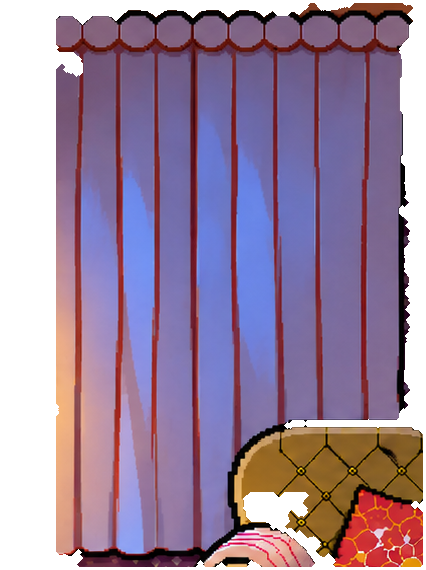
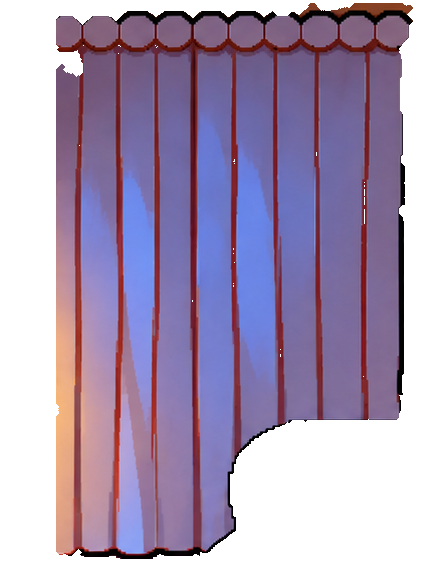
Remove the curtain wiggle; trim closed-curtain pieces to fabric only
- The wrong-light hint that wiggled the closed-curtain layer (wob.win)
  is gone. It shifted the whole layer, dragging armchair pixels and
  showing the pulled-back curtain behind. Light problems now show only
  in the plant: squinting, leaning, hunching.
- day/golden/night_curtains_closed.png held the armchair back, pillow,
  throw and bits of wallpaper along the bottom and right edges besides
  the fabric. Those pixels are now transparent (background removal
  only: no kept pixel changed color, nothing added; the curtain's
  outline keeps its full weight).
- tests/curtain_shots.py: closed curtains at day, golden hour and
  night with a too-dark sun-lover; checks the plant hunches and the
  curtain pixels stay identical over two seconds (it does catch the
  old wiggle if put back).

diff --git a/js/core.js b/js/core.js
@@ -32,7 +32,7 @@ function blocks(map,x,y,c,p=P){x=Math.round(x);y=Math.round(y);g.fillStyle=C.out
 const GL={z:['1111','0010','0100','1111'],star:['10101','01110','11111','01110','10101']};
 function flame(x,y,t){const f=Math.sin(t*20+x)>0?P:0;g.fillStyle=C.out;g.fillRect(x-P*1.5-2,y-P*4-f-2,P*3+4,P*5+f+4);g.fillStyle=C.fl1;g.fillRect(x-P*1.5,y-P*2,P*3,P*2);g.fillStyle=C.fl2;g.fillRect(x-P,y-P*3-f,P*2,P*2);g.fillStyle=C.fl3;g.fillRect(x-P/2,y-P*4-f,P,P*1.5);}
 function heart(x,y){blocks(['1101','1111','0110'],x,y,C.fl1,4);}
-let last=performance.now(),T=0,blink=0;const parts=[];const held={tool:null,item:null};let mx=-99,my=-99;const wob={can:0,jar:0,book:0,win:0};
+let last=performance.now(),T=0,blink=0;const parts=[];const held={tool:null,item:null};let mx=-99,my=-99;const wob={can:0,jar:0,book:0};
 function burst(k,x,y,n,c){for(let i=0;i<n;i++)parts.push({k,x:x+rnd(-30,30),y:y+rnd(-20,20),vx:rnd(-40,40),vy:k==='heart'?rnd(-110,-60):rnd(-50,50),g:k==='heart'?0:k==='drop'?700:300,t:k==='heart'?1.1:.7,c});}
 // FULL SCREEN (Jackie): works where the browser allows it (desktop, Android, iPad). iPhones don't let a web page go full screen inside the viewer.
 document.getElementById('fsBtn').addEventListener('click',e=>{e.stopPropagation();const d=document,el=d.documentElement;

diff --git a/js/plants.js b/js/plants.js
@@ -214,10 +214,9 @@ function plantUpdate(dt){const sp=st.speed;
   if(Math.random()<dt*.06)sfx(n==='thirst'?'crinkle':n==='hunger'?'rumble':'hum');
   if(!st.taught[n]){st.taught[n]=1;say(TEACH[n],8);sfx(n==='thirst'?'crinkle':n==='hunger'?'rumble':'hum');}}
  if(st.lightState!=='ok'){if(Math.random()<dt*.05)sfx('hmm');const key=st.lightState==='hi'?(st.glare===2?'lightFlame':'lightHi'):'lightLo';if(!st.taught[key]){st.taught[key]=1;say(TEACH[key],8);}}
- const hintOn=n=>st.hints==='always'||(st.hints==='auto'&&st.hint[n]<3);
  wob.jar=0; // no hunger, no rattling jar
  wob.book=0; // no bouncing book (Jackie)
- wob.win=st.lightState!=='ok'&&hintOn('light')?Math.round(Math.sin(T*6)*4):0;
+ // no curtain wiggle (Jackie, Nov 3): light problems show only in the plant (squinting, leaning, hunching)
 }
 /* ---------- it moves itself (Jackie: "sit back in the room if it wants to") ----------
    A grown plant that's been in the wrong light for a while shuffles, in whole-pixel steps, to the nearest floor spot that suits it. */

diff --git a/js/room.js b/js/room.js
@@ -55,7 +55,7 @@ function draw(){const nowD=performance.now();dtDraw=Math.min(.1,(nowD-lastDraw)/
  if(!exact&&st.desk===false&&ok(LOFF[tk].desk))g.drawImage(LOFF[tk].desk,831,0);
  if(held.tool==='can'&&ok(STOOL_EMPTY))g.drawImage(STOOL_EMPTY,765,488);
  fidgetDrawProps(rm);
- curK+=((st.curtain==='closed'?1:0)-curK)*Math.min(1,dtDraw*5);if(curK>.01&&!exactC){g.save();g.translate(wob.win,0);drawCurtains(curK);g.restore();}
+ curK+=((st.curtain==='closed'?1:0)-curK)*Math.min(1,dtDraw*5);if(curK>.01&&!exactC)drawCurtains(curK);
  
  const dl=daylight(st.dayT);
  if(wob.can)fx('sparkles',CAN.x+CAN.w/2,CAN.y-10,2,0,.4); // gentle shimmer on the carafe as a water hint (room art untouched)

diff --git a/tests/curtain_shots.py b/tests/curtain_shots.py
@@ -1,0 +1,65 @@
+"""Closed curtains with a plant in the wrong light: screenshots and checks.
+
+Run from the repository root:  python tests/curtain_shots.py
+Day, golden hour and night with the curtains closed (both lamps on, so the curtain pieces are drawn) and a sun-loving
+adult too far from any light. Checks that the plant shows it (too dark, hunching) and that the curtains stay perfectly
+still (no wiggle): the curtain area must be pixel-identical over two seconds. Pictures go to tests/screenshots/curtains/.
+Exit code 1 if a check fails.
+"""
+import asyncio, os, sys
+from playwright.async_api import async_playwright
+from smoke_test import PORT, SHOTS, VIRTUAL_TIME, serve
+
+OUT = os.path.join(SHOTS, "curtains")
+TIMES = {"day": ".3", "golden": ".6", "night": ".88"}  # night by the clock, so the plant is still awake to show it
+SAVE = ("s.mode='actions';s.curtain='closed';s.lamp=true;s.desk=true;s.giftSeed=1;s.others=[];"
+        "s.stage=8;s.species=3;s.pref='sun';s.free={x:1000,y:880};")  # a sun-lover in soft room light: too dark
+# the upper curtain, above any plant's head
+CURTAIN_AREA = "()=>{const d=g.getImageData(250,30,420,270).data;let h=0;for(let i=0;i<d.length;i+=3)h=(h*31+d[i])|0;return h;}"
+
+
+async def main():
+    serve()
+    os.makedirs(OUT, exist_ok=True)
+    fails = []
+    async with async_playwright() as p:
+        b = await p.chromium.launch()
+        for name, t in TIMES.items():
+            ctx = await b.new_context(viewport={"width": 1670, "height": 942})
+            await ctx.add_init_script(VIRTUAL_TIME)
+            pg = await ctx.new_page()
+            errs = []
+            pg.on("pageerror", lambda e: errs.append(str(e)))
+            await pg.goto(f"http://localhost:{PORT}/index.html", wait_until="load")
+            await pg.evaluate("()=>{const s=fresh();s.started=true;s.dayT=" + t + ";" + SAVE + "localStorage.setItem(KEY,JSON.stringify(s));}")
+            await pg.reload(wait_until="load")
+            await pg.click(".screen button")  # Continue
+            await pg.evaluate("()=>__step(8)")  # curtains settle, the plant notices its light (a grown plant scoots off after ~12 s)
+            state = await pg.evaluate("()=>({light:st.lightState,hunch:st.hunch,time:timeKey(),wob:Object.keys(wob).join(',')})")
+            frames = []
+            for _ in range(8):  # sample the curtain area every quarter second
+                await pg.evaluate("()=>__step(.25)")
+                frames.append(await pg.evaluate(CURTAIN_AREA))
+            if state["light"] != "lo" or state["hunch"] < .5:
+                fails.append(f"{name}: plant should be too dark and hunching, got {state}")
+            if state["time"] != name:
+                fails.append(f"{name}: room shows {state['time']}")
+            if len(set(frames)) != 1:
+                fails.append(f"{name}: curtain area moved ({len(set(frames))} different frames)")
+            if "win" in state["wob"]:
+                fails.append(f"{name}: curtain wiggle still exists")
+            fails += [f"{name}: {e}" for e in errs]
+            await pg.wait_for_timeout(800)  # the caption's fade-out runs on real time
+            await pg.screenshot(path=os.path.join(OUT, f"{name}_curtains-closed_too-dark.png"))
+            print(f"{name}: light {state['light']}, hunch {state['hunch']:.2f}, curtain frames identical: {len(set(frames)) == 1}")
+            await ctx.close()
+        await b.close()
+    for f in fails:
+        print("FAIL", f)
+    if fails:
+        sys.exit(1)
+    print("PASS: plant shows the wrong light, curtains stay still. Screenshots in tests/screenshots/curtains/")
+
+
+if __name__ == "__main__":
+    asyncio.run(main())

diff --git a/README.md b/README.md
@@ -44,6 +44,8 @@ Run `python tests/smoke_test.py` from this folder: it plays 16 cases (also a tee
 
 `python tests/thirst_shots.py` checks and pictures every thirst step (full color to fully gray) for an adult, a kid and a sprout, and that watering brings the color back one step every half second; saved to `tests/screenshots/thirst/`.
 
+`python tests/curtain_shots.py` checks closed curtains at day, golden hour and night with a plant in the wrong light: the plant shows it, and the curtains stay perfectly still; saved to `tests/screenshots/curtains/`.
+
 ---
 
 ## How it's built
@@ -111,6 +113,10 @@ Run `python tests/smoke_test.py` from this folder: it plays 16 cases (also a tee
 9. **Light comes from zones the player can see** (`js/light.js`): the window's sun patch (on the rug and the windowsill, fading across the room; time of day and curtains set its strength, closed = soft and dim), a grow-light circle around every lamp that's on (the milk crate is in the floor lamp's, the desk in the desk lamp's), and soft room light everywhere else. Too bright only for shade and night plants, only after a while, and only in the midday sun patch with the curtains open or right under a lamp. Moving out fixes it right away. Plants, the Light map and the coming code lighting all use the same light sources.
 
 ## DECISIONS (newest first, with why)
+
+### No curtain wiggle (Nov 3)
+
+- Removed the curtain wiggle that hinted at wrong light: it shifted the whole closed-curtain layer, dragging armchair pixels and showing the pulled-back curtain behind. Light problems show only in the plant (squinting, leaning, hunching). The closed-curtain pieces were trimmed to fabric only (armchair, pillow, throw and wall pixels made transparent; outlines kept).
 
 ### Thirst fades to gray (Nov 3)
 
